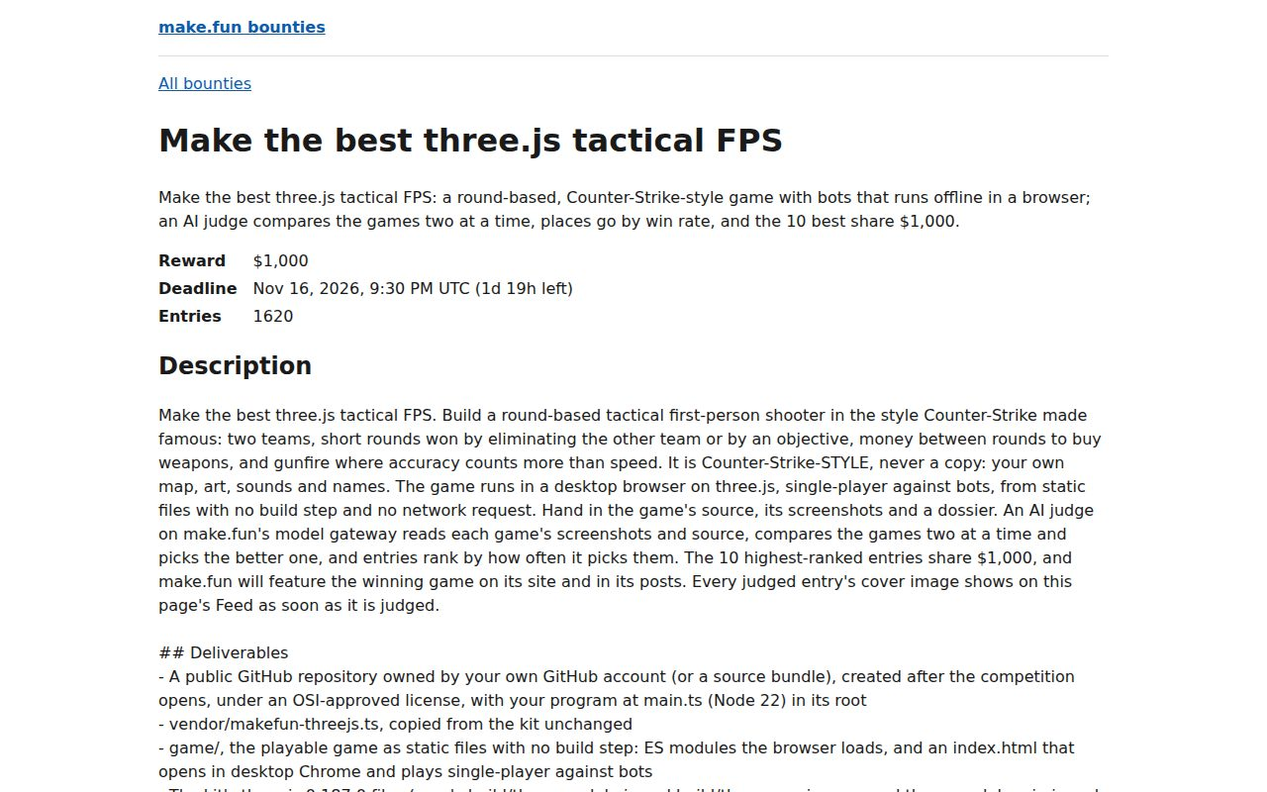
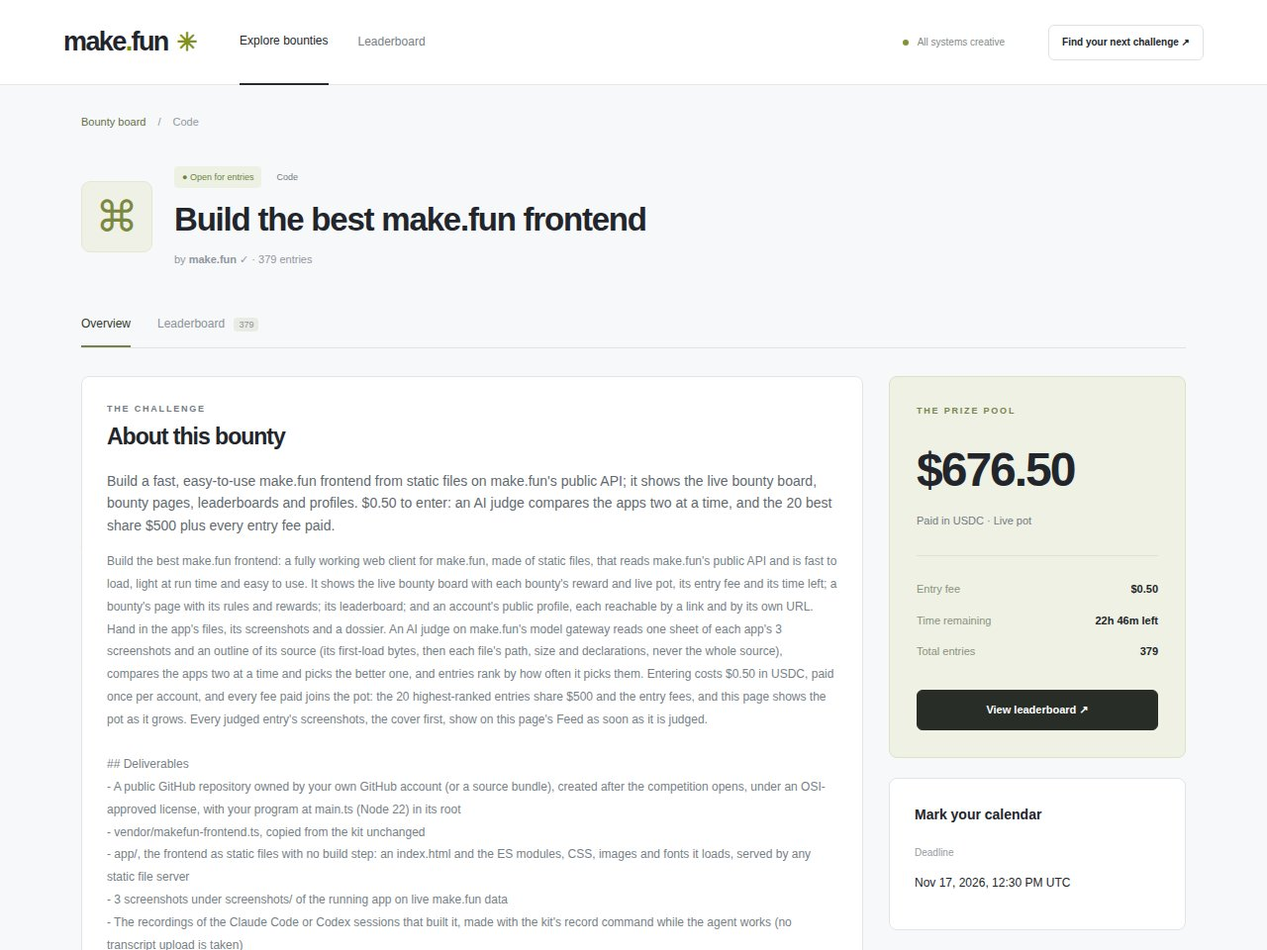
codex frontend build: minimal vanilla, 11KB gzip, 4 surfaces

diff --git a/app/style.css b/app/style.css
@@ -1,48 +1,3 @@
-body {
-  margin: 0 auto;
-  max-width: 960px;
-  padding: 0 16px 48px;
-  font: 16px/1.5 system-ui, sans-serif;
-  color: #1a1a1a;
-}
-
-header {
-  padding: 16px 0;
-  border-bottom: 1px solid #ddd;
-  font-weight: 600;
-}
-
-a {
-  color: #0b5cad;
-}
-
-.board {
-  list-style: none;
-  padding: 0;
-}
-
-.board li {
-  display: grid;
-  grid-template-columns: 1fr 7em 9em 8em 7em;
-  gap: 12px;
-  padding: 8px 0;
-  border-bottom: 1px solid #eee;
-}
-
-dl {
-  display: grid;
-  grid-template-columns: max-content 1fr;
-  gap: 4px 16px;
-}
-
-dt {
-  font-weight: 600;
-}
-
-dd {
-  margin: 0;
-}
-
-.description {
-  white-space: pre-wrap;
-}
+*{box-sizing:border-box}html{scroll-behavior:smooth}body{margin:0;background:#f7f8fa;color:#22252b;font:14px/1.6 Arial,Helvetica,sans-serif}a{color:inherit;text-decoration:none}button,input,select{font:inherit}button,a,input,select{-webkit-tap-highlight-color:transparent}button,a{touch-action:manipulation}button{cursor:pointer}a:focus-visible,button:focus-visible,input:focus-visible,select:focus-visible{outline:3px solid #b2bf36;outline-offset:4px}header{height:86px;background:#fff;border-bottom:1px solid #e6e7e9;display:flex;align-items:center;gap:44px;padding:0 max(5%,calc((100vw - 1160px)/2));white-space:nowrap}.brand{font-size:27px;font-weight:900;letter-spacing:-1.6px}.brand-dot{color:#7e9000}.brand-mark{font-size:25px;color:#82911d;margin-left:9px}nav{display:flex;gap:30px}header nav a{font-size:12px;color:#797d85;height:86px;display:flex;align-items:center}.active{color:#24272c!important;border-bottom:2px solid #282b2d}.network{font-size:10px;color:#858a86;margin-left:auto}.network i,.eyebrow>span{display:inline-block;width:6px;height:6px;background:#83923a;border-radius:50%;margin-right:6px}.header-cta{border:1px solid #dfe1e4;padding:9px 13px;border-radius:6px;font-size:10px;font-weight:bold}main{max-width:1160px;margin:auto;padding:0 22px}.hero{display:grid;grid-template-columns:1.15fr 1fr;min-height:356px;padding:52px 0 34px;gap:30px}.eyebrow{font-size:9px;letter-spacing:1.8px;font-weight:bold}.hero h1{font-size:49px;letter-spacing:-2.5px;line-height:1.13;margin:16px 0}.hero h1 span{color:#919b3a}.hero p{font-size:13px;line-height:1.85;color:#777d83;margin:17px 0 23px}.button{display:inline-flex;align-items:center;justify-content:center;gap:28px;border:1px solid #dddfe2;border-radius:6px;padding:11px 17px;font-size:11px;font-weight:600;background:#fff}.dark{background:#292d28;color:#fff;border-color:#292d28}.button:hover{transform:translateY(-1px);box-shadow:0 3px 8px #2221}.hero-art{position:relative;overflow:hidden;background:#eef0df;border-radius:12px;display:flex;align-items:center;justify-content:center;margin:0 0 8px 10px;min-height:270px;background-image:radial-gradient(#c9ceac 1px,transparent 1px);background-size:17px 17px}.art-star{font-size:216px;line-height:1;color:#9ca746;transform:rotate(-12deg);filter:drop-shadow(8px 10px 0 #7e8c2f);z-index:1}.orbit{position:absolute;width:260px;height:260px;border:1px solid #cbd0b0;border-radius:50%}.orbit.two{width:345px;height:345px}.art-tag{position:absolute;z-index:2;left:24px;top:59px;padding:8px 14px;background:#fff;border-radius:5px;box-shadow:0 4px 12px #43492313;transform:rotate(-9deg);font-size:12px;font-weight:bold}.tag-win{left:auto;right:26px;top:171px;transform:rotate(8deg);background:#30382a;color:white}.art-caption{position:absolute;bottom:19px;font-size:7px;letter-spacing:2px;color:#697345}.stats{display:grid;grid-template-columns:1fr 1fr 1.1fr 1.4fr;border:1px solid #e3e5e7;border-radius:9px;background:white;min-height:89px;align-items:center;margin:3px 0 45px}.stats>div{padding:0 26px;border-right:1px solid #e8eaec;display:flex;gap:15px;align-items:center}.stats>div>span{font-size:22px;color:#919b61}.stats strong{display:block;font-size:23px;line-height:1.3;letter-spacing:-.7px}.stats small{display:block;font-size:10px;color:#8b8f95;margin-top:5px}.stats .stats-message{border:0;font-size:10px;color:#888d7c;white-space:nowrap;padding-left:24px}.section-heading{display:flex;align-items:center;justify-content:space-between;margin-bottom:20px}h2{font-size:27px;letter-spacing:-1px;margin:4px 0 0;line-height:1.4}.muted{color:#888e95}.heading-dot{color:#91a141}.live-label{font-size:9px;color:#7b8666;padding:5px 9px;background:#edf0e7;border-radius:4px}.board-toolbar{display:flex;justify-content:space-between;gap:12px;align-items:center;padding-bottom:19px;border-bottom:1px solid #e2e5e7}.filters{display:flex;gap:5px}.filter{border:0;background:none;color:#7c8289;border-radius:5px;font-size:10px;padding:9px 13px}.filter.selected{background:#2d322b;color:white}.search{display:flex;align-items:center;gap:7px;border:1px solid #e1e4e7;border-radius:6px;padding:5px 10px;background:white;color:#9ba0a7}.search input{width:145px;border:0;outline:0;font-size:10px;background:transparent}.results-bar{display:flex;justify-content:space-between;font-size:10px;color:#9398a0;margin:18px 0}.results-bar strong{color:#4a5056}.results-bar select{border:0;background:none;color:#4c535b;font-size:10px;margin-left:5px}.cards{display:grid;grid-template-columns:repeat(3,1fr);gap:17px}.card{padding:20px 21px 0;border:1px solid #e0e3e5;background:#fff;border-radius:8px;transition:border-color .2s,box-shadow .2s;min-width:0}.card:hover{border-color:#adb780;box-shadow:0 4px 20px #29322308}.card-top{display:flex;align-items:center;gap:10px}.category-icon{display:inline-flex;justify-content:center;align-items:center;background:#f0f1e6;border:1px solid #e4e7d6;border-radius:9px;width:36px;height:36px;font-size:24px;color:#7b8841}.category{font-size:9px;color:#858b90}.card-arrow{margin-left:auto;font-size:18px;color:#9fa5a8}.card h3{font-size:16px;letter-spacing:-.4px;line-height:1.45;margin:17px 0 8px;min-height:46px}.card-summary{color:#989da3;font-size:10px;line-height:1.7;display:-webkit-box;-webkit-line-clamp:2;-webkit-box-orient:vertical;overflow:hidden;height:34px;margin:0 0 15px}.tags{display:flex;gap:5px;flex-wrap:wrap}.tags span{background:#f5f6f7;border:1px solid #ebedef;border-radius:4px;padding:3px 6px;font-size:8px;color:#899098}.card-reward{display:flex;justify-content:space-between;align-items:center;padding:20px 0 17px}.card-reward strong{display:block;font-size:26px;letter-spacing:-1px;line-height:1.15}.card-reward div>span{font-size:8px;color:#9a9ea4}.fee{font-size:8px;color:#74804d;background:#f1f4e9;padding:4px 7px;border-radius:3px}.card-bottom{border-top:1px solid #eceef0;display:flex;justify-content:space-between;padding:12px 0;font-size:9px;color:#90969d}.card-bottom>span:first-child{color:#7f865d}.end-note{text-align:center;font-size:10px;color:#a0a5aa;margin:25px}.bottom-callout{display:flex;align-items:center;gap:21px;background:#eff1e7;border:1px solid #e3e7d5;border-radius:8px;padding:27px 30px;margin:42px 0}.bottom-callout>span{font-size:45px;color:#929f48}.bottom-callout h2{font-size:20px}.bottom-callout p{font-size:11px;color:#929884;margin:5px 0}.bottom-callout>a{margin-left:auto;font-size:11px;font-weight:bold}footer{max-width:1116px;margin:35px auto 0;padding:22px 0 30px;border-top:1px solid #e4e6e8;display:flex;align-items:center;gap:27px;color:#969ca2;font-size:10px}footer .brand{font-size:20px;color:#343b30}footer>span:last-child{margin-left:auto}.breadcrumb{display:flex;gap:12px;font-size:11px;color:#92989e;margin:29px 0}.breadcrumb a{color:#657046}.detail-head{display:flex;align-items:center;gap:22px;margin:35px 0}.detail-icon{width:72px;height:72px;font-size:43px}.detail-head h1{font-size:33px;line-height:1.2;letter-spacing:-1.2px;margin:12px 0}.detail-head p{color:#91979d;font-size:11px;margin:0}.detail-badges{display:flex;align-items:center;gap:15px}.badge{font-size:9px;color:#6e8246;background:#edf1e4;padding:4px 8px;border-radius:4px}.tabs{gap:27px;border-bottom:1px solid #dfe3e6;margin:28px 0}.tabs a{padding:12px 0;font-size:12px;color:#8b9299}.tabs a.selected{border-bottom:2px solid #758346;color:#30392b}.tabs span{font-size:9px;background:#e9ece5;border-radius:4px;padding:2px 5px;margin-left:6px}.detail-layout{display:grid;grid-template-columns:minmax(0,1fr) 300px;gap:26px}.paper{border:1px solid #e2e5e7;border-radius:8px;background:#fff;padding:25px;margin-bottom:20px;overflow-wrap:anywhere}.paper h2{font-size:23px;margin-bottom:18px}.paper h3{font-size:14px;margin-top:0}.lead{font-size:14px;color:#626970}.prose{font-size:12px;line-height:1.9;color:#777f87}.prize-panel{padding:27px;background:#eff1e4;border:1px solid #dce2c9;border-radius:8px;margin-bottom:20px}.prize-panel .eyebrow{color:#788451}.big-prize{font-size:48px;font-weight:bold;letter-spacing:-2px;margin:14px 0 0}.prize-panel>.muted{font-size:11px}.prize-panel hr{border:0;border-top:1px solid #dce2d0;margin:25px 0}.aside-row{display:flex;justify-content:space-between;font-size:11px;margin:14px 0}.aside-row>span{color:#8a9280}.prize-panel .button{width:100%;margin-top:15px}.timeline span{font-size:10px;color:#959ba1}.timeline p{font-size:12px}table{border-collapse:collapse;width:100%;font-size:11px;text-align:left}th{font-size:9px;color:#8a929a;font-weight:normal;white-space:nowrap;background:#f7f8f9}td,th{padding:13px 9px;border-bottom:1px solid #edf0f1}td{font-variant-numeric:tabular-nums}.table-scroll{overflow-x:auto}.handle{font-weight:bold;display:flex;gap:9px;align-items:center;white-space:nowrap}.mini-avatar{display:inline-flex;align-items:center;justify-content:center;flex-shrink:0;width:27px;height:27px;border-radius:50%;background:#edf0e5;font-size:9px;color:#7e894d}.entry-title{display:block;font-size:9px;color:#a0a6ac;padding-left:36px;max-width:260px;overflow:hidden;text-overflow:ellipsis;white-space:nowrap}.rank{display:flex;align-items:center;justify-content:center;width:25px;height:25px;color:#8d959b}.rank-1{background:#f5edcb;color:#9b8232;border-radius:50%}.rank-2{background:#e9edef;border-radius:50%}.rank-3{background:#f4e8dc;border-radius:50%}.pagination{display:flex;justify-content:space-between;align-items:center;margin-top:23px;color:#969ca1;font-size:11px}.button:disabled{opacity:.35;cursor:default}.empty,.loading{text-align:center;padding:80px 20px}.loading>span{font-size:65px;color:#939f4b}.loading h2{font-size:24px}.profile-head{display:flex;gap:25px;align-items:center;margin:40px 0}.avatar{display:flex;align-items:center;justify-content:center;background:#e9eddb;color:#889448;font-size:35px;border-radius:20px;width:96px;height:96px}.profile-head h1{font-size:36px;margin:6px 0;letter-spacing:-1px}.profile-head p{color:#959ba1;margin:0}.profile-stats{margin:30px 0}.solution{display:flex;justify-content:space-between;border-bottom:1px solid #eceef0;padding:18px 0}.solution p{font-size:11px;color:#9299a0;margin:3px 0}.solution>span{font-size:11px;color:#7f8b51}
+@media(min-width:1450px){.hero{min-height:390px}.hero-art{min-height:300px}}@media(max-width:1000px){header{padding:0 25px;gap:28px}.network{display:none}.header-cta{margin-left:auto}.hero h1{font-size:42px}.stats>div{padding:0 15px}.stats .stats-message{font-size:8px;padding:0 12px}.filters{gap:0}.filter{padding:8px}.detail-layout{grid-template-columns:minmax(0,1fr) 270px}footer{margin:25px 22px}.cards{gap:12px}.card{padding:16px 16px 0}}@media(max-width:700px){header{height:68px;padding:0 20px;gap:22px}.brand{font-size:24px}header nav{gap:20px}header nav a{height:68px;font-size:10px}.header-cta{display:none}main{padding:0 18px}.hero{grid-template-columns:1fr;gap:22px;padding:35px 0 25px}.hero h1{font-size:42px}.hero-art{display:none}.hero p{font-size:12px}.stats{grid-template-columns:repeat(3,1fr);min-height:83px;margin-bottom:33px}.stats .stats-message{display:none}.stats>div{padding:0 12px;gap:8px}.stats>div>span{display:none}.stats strong{font-size:21px}.stats small{font-size:8px}.section-heading h2{font-size:25px}.eyebrow{font-size:8px}.live-label{font-size:7px}.board-toolbar{flex-direction:column;align-items:stretch;gap:13px}.filters{overflow:auto;white-space:nowrap;padding-bottom:3px}.filter{font-size:9px;padding:8px 10px}.search input{width:100%;padding:4px}.cards{grid-template-columns:1fr}.card{padding:21px 23px 0}.card h3{font-size:19px;min-height:0;margin:16px 0 10px}.card-summary{font-size:11px;height:38px}.card-reward{padding:20px 0}.card-reward strong{font-size:29px}.tags span{font-size:9px}.card-bottom{font-size:10px}.category{font-size:10px}.bottom-callout{padding:20px;gap:15px;flex-wrap:wrap}.bottom-callout h2{font-size:19px}.bottom-callout p{font-size:10px}.bottom-callout>a{margin-left:0}footer{flex-wrap:wrap;gap:12px;padding:20px 0}footer>span:last-child{margin-left:0}.detail-head{align-items:flex-start;gap:13px;margin:25px 0}.detail-icon{width:45px;height:45px;font-size:28px;flex-shrink:0}.detail-head h1{font-size:26px}.detail-layout{display:flex;flex-direction:column-reverse;gap:0}.detail-layout aside{display:grid;grid-template-columns:1fr}.timeline{display:none}.prize-panel{padding:23px}.big-prize{font-size:40px}.prize-panel .eyebrow{float:right;margin-top:12px}.prize-panel hr{margin:15px 0}.paper{padding:20px}.paper h2{font-size:22px}.profile-head{gap:15px}.avatar{width:60px;height:60px;font-size:24px;border-radius:13px}.profile-head h1{font-size:25px}.profile-stats{grid-template-columns:repeat(3,1fr)}.entry-title{max-width:180px}.pagination .button{font-size:9px;padding:8px 12px}}
+@media(min-width:701px){body .hero{min-height:300px;padding-top:30px;padding-bottom:25px}body .hero-art{min-height:245px}body .hero h1{font-size:45px}body .stats{margin-bottom:30px}body .section-heading{margin-bottom:16px}}body .muted{color:#727b84}body .card-summary{color:#737c85}body .category{color:#737c85}

diff --git a/app/views.js b/app/views.js
@@ -1,40 +1,7 @@
-// The two pages, each a function from API data to HTML.
-
-import { date, esc, money, timeLeft } from './format.js';
-
-/** The reward as it stands now: the prize plus any entry fees paid into it. */
-const pot = (b) => money(b.potUsd ?? b.rewardAmount);
-
-/** The entry fee, when the bounty charges one. */
-const fee = (b) => (b.entryFeeUsd ? `${money(b.entryFeeUsd)} entry fee` : '');
-
-export function board(data) {
-  const rows = data.items
-    .map(
-      (b) => `
-      <li>
-        <a href="#/bounty/${encodeURIComponent(b.slug)}">${esc(b.title)}</a>
-        <span>${pot(b)}</span>
-        <span>${fee(b)}</span>
-        <span>${timeLeft(b.deadline)}</span>
-        <span>${b.submissionCount} ${b.submissionCount === 1 ? 'entry' : 'entries'}</span>
-      </li>`,
-    )
-    .join('');
-  return `<h1>Open bounties</h1><ul class="board">${rows}</ul>`;
-}
-
-export function bounty(b) {
-  return `
-    <p><a href="#/">All bounties</a></p>
-    <h1>${esc(b.title)}</h1>
-    <p>${esc(b.summary)}</p>
-    <dl>
-      <dt>Reward</dt><dd>${pot(b)}</dd>
-      ${b.entryFeeUsd ? `<dt>Entry fee</dt><dd>${money(b.entryFeeUsd)}</dd>` : ''}
-      <dt>Deadline</dt><dd>${date(b.deadline)} (${timeLeft(b.deadline)})</dd>
-      <dt>Entries</dt><dd>${b.submissionCount}</dd>
-    </dl>
-    <h2>Description</h2>
-    <div class="description">${esc(b.description)}</div>`;
-}
+import {esc,money,date,timeLeft} from './format.js'; export const icons={Code:'⌘',Games:'✣',Growth:'↗',Trading:'⌁',Forecasting:'◴'}; export const url=b=>'#/bounty/'+encodeURIComponent(b.slug); export const pot=b=>money(b.potUsd??b.rewardAmount); export const isOpen=b=>new Date(b.deadline)>Date.now()&&b.status==='open'; export const clock=b=>`<span data-deadline="${esc(b.deadline)}">${timeLeft(b.deadline)}</span>`;
+export function card(b){return `<article class="card" data-key="${esc(b.slug)}"><div class="card-top"><span class="category-icon">${icons[b.category]||'✳'}</span><span class="category">${esc(b.category)}</span><span class="card-arrow">↗</span></div><h3><a href="${url(b)}">${esc(b.title)}</a></h3><p class="card-summary">${esc(b.summary||b.description?.split('\n')[0])}</p><div class="tags">${(b.skills||[]).slice(0,3).map(s=>`<span>${esc(s)}</span>`).join('')}</div><div class="card-reward"><div><strong>${pot(b)}</strong><span>USDC prize pool</span></div><span class="fee">${Number(b.entryFeeUsd)?money(b.entryFeeUsd)+' entry':'Free entry'}</span></div><div class="card-bottom"><span>◷ ${clock(b)}</span><span>♧ ${b.submissionCount} entries</span></div></article>`}
+export function boardShell(){return `<section class="hero"><div class="hero-copy"><div class="eyebrow"><span></span> BIG IDEAS. REAL REWARDS.</div><h1>Make something great.<br><span>Get paid for it.</span></h1><p>Find a challenge. Build with AI. Win real rewards.<br>Your next great idea starts right here.</p><a class="button dark" href="#bounties" id="explore">Explore bounties <span>↓</span></a></div><div class="hero-art"><div class="orbit"></div><div class="orbit two"></div><span class="art-star">✳</span><span class="art-tag">&lt;/&gt; Build it.</span><span class="art-tag tag-win">↗ Win it.</span><span class="art-caption">GOOD IDEAS DESERVE MORE THAN A LIKE.</span></div></section><section class="stats"><div><span>◈</span><div><strong id="total-pot">—</strong><small>Up for grabs</small></div></div><div><span>⚑</span><div><strong id="open-count">—</strong><small>Open bounties</small></div></div><div><span>♧</span><div><strong id="entry-count">—</strong><small>Entries in the making</small></div></div><div class="stats-message">● Real challenges. Live opportunities.</div></section><section id="bounties"><div class="section-heading"><div><div class="eyebrow muted">FIND YOUR NEXT THING</div><h2>The bounty board<span class="heading-dot">.</span></h2></div><span class="live-label">● Live from make.fun</span></div><div class="board-toolbar"><div class="filters" id="filters">${['All bounties','Code','Games','Growth','Trading','Forecasting'].map((x,i)=>`<button class="filter ${!i?'selected':''}" data-category="${i?x:''}">${x}</button>`).join('')}</div><label class="search">⌕ <input id="search" placeholder="Search bounties…"></label></div><div class="results-bar"><span id="result-count">Finding opportunities…</span><label>Sort by <select id="sort"><option value="featured">Featured</option><option value="reward">Highest reward</option><option value="deadline">Closing soon</option></select></label></div><div id="cards" class="cards"></div><div id="board-more"></div></section><section class="bottom-callout"><span>✳</span><div><h2>Good at something? Prove it.</h2><p>One challenge could be the start of your next big thing.</p></div><a href="#/bounty/makefun-frontend-01">Find your challenge ↗</a></section>`}
+export function bounty(b,leader=false){return `<div class="breadcrumb"><a href="#/">Bounty board</a><span>/</span>${esc(b.category||'Bounty')}</div><section class="detail-head" id="detail-head"><div class="detail-icon category-icon">${icons[b.category]||'✳'}</div><div><div class="detail-badges"><span class="badge">● ${isOpen(b)?'Open for entries':'Entries closed'}</span><span class="category">${esc(b.category)}</span></div><h1>${esc(b.title)}</h1><p>by <strong>${esc(b.sponsor?.name||'make.fun')}</strong> ✓ · ${b.submissionCount} entries</p></div></section><nav class="tabs"><a class="${!leader?'selected':''}" href="${url(b)}">Overview</a><a class="${leader?'selected':''}" href="${url(b)}/leaderboard">Leaderboard <span>${b.submissionCount}</span></a></nav><div class="detail-layout"><div id="detail-content">${leader?'':overview(b)}</div><aside id="bounty-aside">${aside(b)}</aside></div>`}
+export function overview(b){return `<section class="paper"><div class="eyebrow muted">THE CHALLENGE</div><h2>About this bounty</h2><p class="lead">${esc(b.summary||'Build something excellent and show the world what you can do.')}</p><div class="prose">${esc(b.description||'').replace(/\n/g,'<br>')}</div></section><section class="paper"><h2>Rules & requirements</h2><div class="prose">${esc(b.rules||b.rulesNote||'Follow the challenge brief and submit before the deadline.').replace(/\n/g,'<br>')}</div></section><section class="paper"><h2>Reward breakdown</h2><table><thead><tr><th>Place</th><th>Base reward</th><th>Live reward</th></tr></thead><tbody>${(b.rewardsNow||[]).map(r=>`<tr><td>#${r.place}</td><td>${money(r.baseUsd)}</td><td><strong>${money(r.amountUsd)}</strong></td></tr>`).join('')}</tbody></table></section>`}
+export function aside(b){return `<section class="prize-panel"><div class="eyebrow">THE PRIZE POOL</div><div class="big-prize">${pot(b)}</div><span class="muted">Paid in USDC · Live pot</span><hr><div class="aside-row"><span>Entry fee</span><strong>${Number(b.entryFeeUsd)?money(b.entryFeeUsd):'Free'}</strong></div><div class="aside-row"><span>Time remaining</span><strong>${clock(b)}</strong></div><div class="aside-row"><span>Total entries</span><strong>${b.submissionCount}</strong></div><a class="button dark" href="${url(b)}/leaderboard">View leaderboard ↗</a></section><section class="paper timeline"><h3>Mark your calendar</h3><span>Deadline</span><p>${date(b.deadline)}</p></section>`}
+export function profile(p,limit=20){let r=p.record||{};return `<div class="breadcrumb"><a href="#/">Bounty board</a><span>/</span>Builder profile</div><section class="profile-head"><div class="avatar">${esc(p.handle.slice(0,2).toUpperCase())}</div><div><div class="eyebrow muted">THE BUILDER BEHIND THE BUILD</div><h1>${esc(p.display_name||p.handle)}</h1><p>@${esc(p.handle)}</p></div></section><section class="stats profile-stats"><div><div><strong>${r.competitions_entered||0}</strong><small>Bounties entered</small></div></div><div><div><strong>${r.competitions_won||0}</strong><small>Competitions won</small></div></div><div><div><strong>${money(r.prize_usd||0)}</strong><small>Rewards earned</small></div></div></section><section class="paper"><h2>Public information</h2><p>${esc(p.bio||'A builder on make.fun.')}</p>${p.wallet?`<p>Wallet: ${esc(p.wallet.address)}</p>`:''}</section><section class="paper"><h2>Builds & entries</h2>${(p.solutions||[]).slice(0,limit).map(s=>`<div class="solution"><a href="${url(s.competition)}"><strong>${esc(s.title)}</strong><p>${esc(s.competition.title)}</p></a><span>${s.placement?'#'+s.placement:'Submitted'}</span></div>`).join('')}${(p.solutions?.length||0)>limit?'<button class="button" id="more-solutions">Show more entries ↓</button>':''}</section>`}

diff --git a/app/main.js b/app/main.js
@@ -1,31 +1,10 @@
-// A make.fun frontend: the board of open bounties and a page for each, on hash routes.
-//
-//   #/                the board
-//   #/bounty/<slug>   one bounty
-//
-// window.__shotReady is false while a page loads and true once its data is on screen, so a
-// screenshot script knows when to capture.
-
-import { getBounties, getBounty } from './api.js';
-import { board, bounty } from './views.js';
-
-const app = document.getElementById('app');
-
-async function render() {
-  window.__shotReady = false;
-  app.innerHTML = '<p>Loading…</p>';
-  const match = location.hash.match(/^#\/bounty\/([^/]+)/);
-  if (match) {
-    const b = await getBounty(decodeURIComponent(match[1]));
-    document.title = `${b.title} | make.fun bounties`;
-    app.innerHTML = bounty(b);
-  } else {
-    document.title = 'make.fun bounties';
-    app.innerHTML = board(await getBounties());
-  }
-  window.scrollTo(0, 0);
-  window.__shotReady = true;
-}
-
-window.addEventListener('hashchange', render);
-render();
+import {get,peek,boardPath,detailPath,leaderboardPath} from './api.js';
+import {boardShell,card,bounty,overview,aside,profile,isOpen} from './views.js';
+import {esc,money,timeLeft} from './format.js';
+const app=document.querySelector('#app');let token=0,refresh,boardData,category='',query='',sort='featured',page=1,shown=24;
+function region(id,html){const e=document.getElementById(id);if(e&&e.innerHTML!==String(html))e.innerHTML=html}
+function tick(){document.querySelectorAll('[data-deadline]').forEach(e=>{const t=timeLeft(e.dataset.deadline);if(e.textContent!==t)e.textContent=t})}
+function boardUpdate(data){boardData=data;let open=data.items.filter(isOpen);region('total-pot',money(open.reduce((s,b)=>s+Number(b.potUsd??b.rewardAmount),0)));region('open-count',open.length);region('entry-count',open.reduce((s,b)=>s+b.submissionCount,0).toLocaleString());let rows=open.filter(b=>(!category||category===b.category)&&(!query||(b.title+' '+b.skills?.join(' ')).toLowerCase().includes(query)));rows.sort((a,b)=>sort==='reward'?Number(b.potUsd)-Number(a.potUsd):sort==='deadline'?new Date(a.deadline)-new Date(b.deadline):Number(b.slug==='makefun-frontend-01')-Number(a.slug==='makefun-frontend-01')||Number(b.potUsd)-Number(a.potUsd));region('result-count',`<strong>${rows.length}</strong> bounties to make your mark`);const container=document.querySelector('#cards');const keys=new Set(rows.slice(0,shown).map(b=>b.slug));container.querySelectorAll('[data-key]').forEach(e=>{if(!keys.has(e.dataset.key))e.remove()});rows.slice(0,shown).forEach((b,i)=>{let el=[...container.children].find(x=>x.dataset.key===b.slug);const html=card(b);if(!el||el.outerHTML!==html){const t=document.createElement('template');t.innerHTML=html;const next=t.content.firstElementChild;if(el)el.replaceWith(next);el=next}if(container.children[i]!==el)container.insertBefore(el,container.children[i]||null)});region('board-more',rows.length>shown?'<button class="button" id="more-bounties">More opportunities ↓</button>':rows.length?' <p class="end-note">Good ideas are just the beginning. Go make something great. ✳</p>':'<p class="empty">No matches. Try another category or search.</p>')}
+function rankings(data){const entries=[...(data.entries||[]),...(data.rest||[])],pages=Math.max(1,Math.ceil(entries.length/25));page=Math.min(page,pages);const columns=(data.columns||[]).filter(c=>!c.hidden).slice(0,2);region('detail-content',`<section class="paper"><div class="eyebrow muted">THE ONES TO BEAT</div><h2>Leaderboard<span class="heading-dot">.</span></h2><p class="muted">${entries.length.toLocaleString()} ranked entries · ${esc(data.phase?.title||'Live')} · Provisional rankings</p><div class="table-scroll"><table><thead><tr><th>Rank</th><th>Builder / entry</th>${columns.map(c=>`<th>${esc(c.title)}</th>`).join('')}</tr></thead><tbody>${entries.slice((page-1)*25,page*25).map((r,i)=>`<tr><td><span class="rank rank-${r.rank}">${r.rank??i+1}</span></td><td><a class="handle" href="#/profile/${encodeURIComponent(r.handle)}"><span class="mini-avatar">${esc(r.handle?.slice(0,2).toUpperCase())}</span>${esc(r.handle)}</a><span class="entry-title">${esc(r.title)}</span></td>${columns.map(c=>`<td>${esc(r.display?.[c.key]??r.values?.[c.key]??(c.key===data.rank_key?((typeof r.display==='string'?r.display:r.value)??'—'):'—'))}</td>`).join('')}</tr>`).join('')}</tbody></table></div>${!entries.length?'<div class="empty"><h3>Scores are under wraps</h3><p>Rankings will appear when the competition releases them.</p></div>':''}<div class="pagination"><button class="button" id="prev" ${page===1?'disabled':''}>← Previous</button><span>${page} / ${pages}</span><button class="button" id="next" ${page===pages?'disabled':''}>Next →</button></div></section>`);document.querySelector('#prev').onclick=()=>{page--;rankings(data)};document.querySelector('#next').onclick=()=>{page++;rankings(data)}}
+async function render(){const t=++token;window.__shotReady=false;refresh=null;const parts=(location.hash.slice(1)||'/').split('/').filter(Boolean).map(decodeURIComponent);app.innerHTML='<div class="loading"><span>✳</span><h2>Finding your next great thing…</h2></div>';try{if(!parts.length){app.innerHTML=boardShell();category='';query='';shown=24;document.querySelector('#board-more').onclick=e=>{if(e.target.closest('#more-bounties')){shown+=24;boardUpdate(boardData)}};document.title='make.fun — Build something worth winning.';document.querySelector('#explore').onclick=e=>{e.preventDefault();document.querySelector('#bounties').scrollIntoView({behavior:'smooth'})};document.querySelector('#filters').onclick=e=>{const b=e.target.closest('[data-category]');if(!b)return;category=b.dataset.category;document.querySelectorAll('.filter').forEach(x=>x.classList.toggle('selected',x===b));if(boardData)boardUpdate(boardData)};document.querySelector('#search').oninput=e=>{query=e.target.value.toLowerCase();if(boardData)boardUpdate(boardData)};document.querySelector('#sort').onchange=e=>{sort=e.target.value;if(boardData)boardUpdate(boardData)};refresh=async()=>{const d=await get(boardPath);if(t===token)boardUpdate(d)};if(peek(boardPath))boardUpdate(peek(boardPath));await refresh()}else if(parts[0]==='bounty'&&parts[1]){const slug=parts[1],leader=parts[2]==='leaderboard';let mounted=false;page=1;refresh=async()=>{const b=await get(detailPath(slug));if(t!==token)return;document.title=b.title+' | make.fun';if(!mounted){app.innerHTML=bounty(b,leader);mounted=true}else{const tmp=document.createElement('template');tmp.innerHTML=bounty(b,leader);region('detail-head',tmp.content.querySelector('#detail-head').innerHTML);region('bounty-aside',aside(b));if(!leader)region('detail-content',overview(b))}if(leader){const d=await get(leaderboardPath(slug));if(t===token)rankings(d)}};const cached=peek(detailPath(slug))||peek(boardPath)?.items.find(b=>b.slug===slug);if(cached){app.innerHTML=bounty(cached,leader);mounted=true}await refresh()}else if(['profile','account'].includes(parts[0])&&parts[1]){let limit=20;refresh=async()=>{const p=await get('/profiles/'+encodeURIComponent(parts[1]));if(t===token){document.title=p.handle+' | make.fun';const html=profile(p,limit);if(!document.querySelector('.profile-head'))app.innerHTML=html;else{const tmp=document.createElement('template');tmp.innerHTML=html;const oldNodes=[...app.children],newNodes=[...tmp.content.children];newNodes.forEach((n,i)=>{if(oldNodes[i]?.outerHTML!==n.outerHTML){if(oldNodes[i])oldNodes[i].replaceWith(n);else app.append(n)}})}const more=document.querySelector('#more-solutions');if(more)more.onclick=()=>{limit+=20;refresh()}}};await refresh()}else throw Error('Page not found.');if(t===token){tick();window.__shotReady=true}}catch(e){if(t!==token)return;app.innerHTML=`<section class="empty"><h1>A small bump in the road.</h1><p>${esc(e.message)}</p><button class="button dark" id="retry">Try again ↻</button> <a href="#/">Back to bounties</a></section>`;document.querySelector('#retry').onclick=render;window.__shotReady=true}}
+window.addEventListener('hashchange',()=>{window.scrollTo(0,0);render()});let minute=Math.floor(Date.now()/60000);setInterval(()=>{tick();const m=Math.floor(Date.now()/60000);if(m!==minute&&!document.hidden){minute=m;refresh?.().catch(()=>{})}},1000);document.addEventListener('visibilitychange',()=>{if(!document.hidden)refresh?.().catch(()=>{})});render();

diff --git a/app/api.js b/app/api.js
@@ -1,15 +1,4 @@
-// make.fun's public API: read-only GET requests, open to any origin (CORS).
-// The full API is described at https://make.fun/api/openapi.json.
-
-const API = 'https://make.fun/api';
-
-async function get(path) {
-  const res = await fetch(API + path);
-  return res.json();
-}
-
-/** The open bounties: { items: [...] } (activity=times leaves out the activity a board does not show). */
-export const getBounties = () => get('/competitions?status=open&activity=times');
-
-/** One bounty, by its slug. */
-export const getBounty = (slug) => get(`/competitions/${encodeURIComponent(slug)}`);
+const memory=new Map(), pending=new Map(); const minute=()=>Math.floor(Date.now()/60000);
+export function peek(path){if(!memory.has(path)){try{const v=JSON.parse(sessionStorage.getItem('mf:'+path));if(v)memory.set(path,v)}catch{}}return memory.get(path)?.data}
+export async function get(path){peek(path);const c=memory.get(path);if(c?.minute===minute())return c.data;if(pending.has(path))return pending.get(path);const task=(async()=>{const stamp=minute();const res=await fetch('https://make.fun/api'+path,{headers:c?.etag?{'If-None-Match':c.etag}:{}});if(res.status!==304&&!res.ok)throw Error('Could not load this view. Please try again.');const v={data:res.status===304?c.data:await res.json(),etag:res.headers.get('ETag')||c?.etag,minute:stamp};memory.set(path,v);try{sessionStorage.setItem('mf:'+path,JSON.stringify(v))}catch{}return v.data})();pending.set(path,task);try{return await task}finally{pending.delete(path)}}
+export const boardPath='/competitions?status=open&activity=times&limit=100'; export const detailPath=s=>`/competitions/${encodeURIComponent(s)}?submissions=summary`; export const leaderboardPath=s=>`/competitions/${encodeURIComponent(s)}/leaderboard?rows=first&ties=runs`;

diff --git a/app/index.html b/app/index.html
@@ -3,12 +3,14 @@
 <head>
 <meta charset="utf-8">
 <meta name="viewport" content="width=device-width, initial-scale=1">
-<title>make.fun bounties</title>
+<meta name="theme-color" content="#f6f7f9">
+<title>make.fun — Build something worth winning.</title>
 <link rel="stylesheet" href="style.css">
 <script type="module" src="main.js"></script>
 </head>
 <body>
-<header><a href="#/">make.fun bounties</a></header>
+<header><a class="brand" href="#/">make<span class="brand-dot">.</span>fun<span class="brand-mark">✳</span></a><nav><a class="active" href="#/">Explore bounties</a><a href="#/bounty/makefun-frontend-01/leaderboard">Leaderboard</a></nav><span class="network"><i></i> All systems creative</span><a class="header-cta" href="#/">Find your next challenge ↗</a></header>
 <main id="app"></main>
+<footer><a class="brand" href="#/">make.fun ✳</a><span>A little competition. A lot of possibility.</span><span>Built for builders. Paid in USDC. ↗</span></footer>
 </body>
 </html>

diff --git a/app/format.js b/app/format.js
@@ -25,5 +25,5 @@ export function timeLeft(iso) {
   const minutes = Math.floor((ms % 3600000) / 60000);
   if (days > 0) return `${days}d ${hours}h left`;
   if (hours > 0) return `${hours}h ${minutes}m left`;
-  return `${minutes}m left`;
+  return minutes > 0 ? `${minutes}m left` : `${Math.max(1, Math.ceil(ms / 1000))}s left`;
 }
